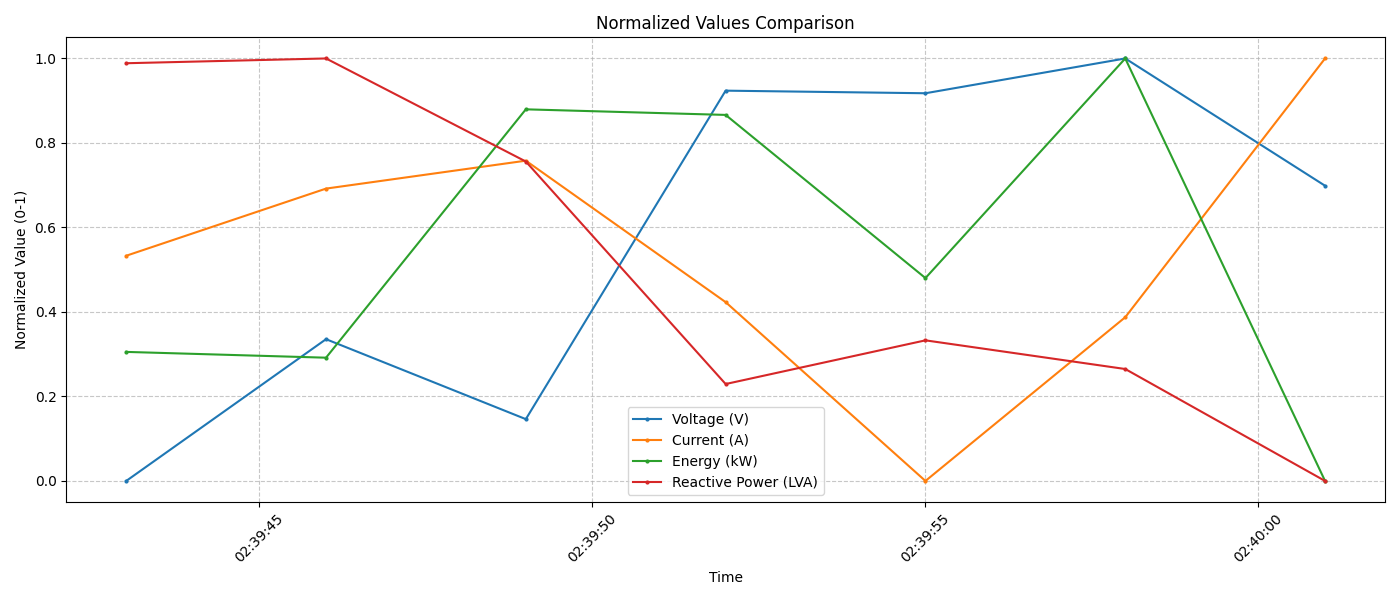
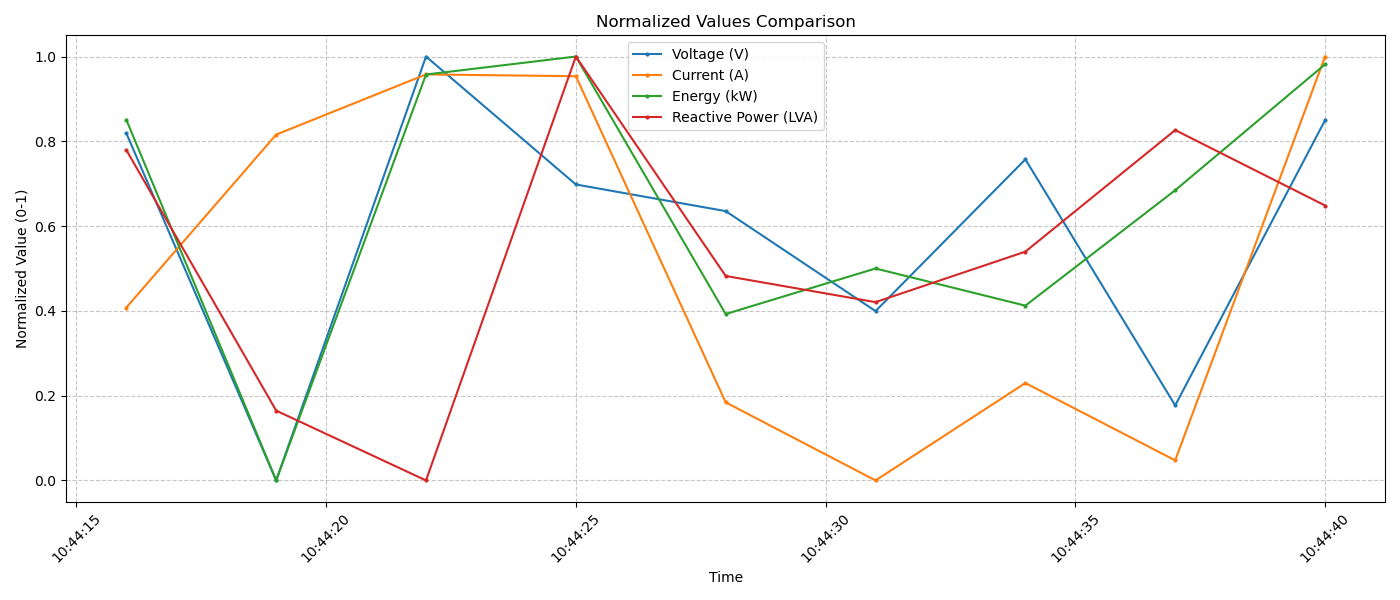
Mock script compatability update

diff --git a/energy_logger.py b/energy_logger.py
@@ -4,18 +4,26 @@ import csv
 import random
 import time
 import os
-import msvcrt
 import pandas as pd
-import matplotlib.pyplot as plt
 from datetime import datetime
+
+# Configure matplotlib for headless environment
+import matplotlib
+matplotlib.use('Agg')  # Non-interactive backend for headless systems
+import matplotlib.pyplot as plt
 
 # Config
 DS_FILENAME = "energy_data.csv"
 DS_HEADER = ["Timestamp", "Voltage (V)", "Current (A)", "Energy (kW)", "Reactive Power (LVA)"]
 
-with open(DS_FILENAME, 'w', newline='') as f:
-    writer = csv.writer(f)
-    writer.writerow(DS_HEADER)
+# Create plots directory if it doesn't exist
+os.makedirs("plots", exist_ok=True)
+
+# Initialize CSV file with headers if it doesn't exist or is empty
+if not os.path.exists(DS_FILENAME) or os.path.getsize(DS_FILENAME) == 0:
+    with open(DS_FILENAME, 'w', newline='') as f:
+        writer = csv.writer(f)
+        writer.writerow(DS_HEADER)
 
 # Functions
 def meter_reading():
@@ -33,124 +41,137 @@ def calculate_statistics():
     """
     Calculate statistics based on the logged data.
     """
-    df = pd.read_csv(DS_FILENAME)
-    
-    # Calculate statistics for each column
-    stats = {}
-    for column in df.columns[1:]:  # Skip timestamp column
-        stats[column] = {
-            'min': df[column].min(),
-            'max': df[column].max(),
-            'mean': df[column].mean(),
-            'median': df[column].median(),
-            'std': df[column].std()
-        }
-    
-    # Print statistics
-    print("\n===== Power Meter Statistics =====")
-    for column, values in stats.items():
-        print(f"\n{column}:")
-        for stat_name, stat_value in values.items():
-            print(f"  {stat_name}: {stat_value:.2f}")
+    try:
+        df = pd.read_csv(DS_FILENAME)
+        
+        # Calculate statistics for each column
+        stats = {}
+        for column in df.columns[1:]:  # Skip timestamp column
+            stats[column] = {
+                'min': df[column].min(),
+                'max': df[column].max(),
+                'mean': df[column].mean(),
+                'median': df[column].median(),
+                'std': df[column].std()
+            }
+        
+        # Print statistics
+        print("\n===== Power Meter Statistics =====")
+        for column, values in stats.items():
+            print(f"\n{column}:")
+            for stat_name, stat_value in values.items():
+                print(f"  {stat_name}: {stat_value:.2f}")
 
-    return df
+        return df
+    except Exception as e:
+        print(f"Error calculating statistics: {e}")
+        return None
 
 def visualize_data(df):
     """
     Visualize the logged data with enhanced time series charts.
     """
-    # Convert timestamp to datetime for better plotting
-    df['Timestamp'] = pd.to_datetime(df['Timestamp'])
-    
-    # Create figure with shared x-axis for better time comparison
-    fig, axs = plt.subplots(2, 2, figsize=(14, 10), sharex=True)
-    
-    # Format the date/time display on x-axis
-    from matplotlib.dates import DateFormatter
-    date_format = DateFormatter('%H:%M:%S')
-    
-    # Plot voltage with markers and grid
-    axs[0, 0].plot(df['Timestamp'], df['Voltage (V)'], 'b-', linewidth=1.5, marker='o', markersize=3)
-    axs[0, 0].set_title('Voltage Over Time')
-    axs[0, 0].set_ylabel('Voltage (V)')
-    axs[0, 0].grid(True, linestyle='--', alpha=0.7)
-    
-    # Plot current
-    axs[0, 1].plot(df['Timestamp'], df['Current (A)'], 'r-', linewidth=1.5, marker='o', markersize=3)
-    axs[0, 1].set_title('Current Over Time')
-    axs[0, 1].set_ylabel('Current (A)')
-    axs[0, 1].grid(True, linestyle='--', alpha=0.7)
-    
-    # Plot energy
-    axs[1, 0].plot(df['Timestamp'], df['Energy (kW)'], 'g-', linewidth=1.5, marker='o', markersize=3)
-    axs[1, 0].set_title('Energy Over Time')
-    axs[1, 0].set_ylabel('Energy (kW)')
-    axs[1, 0].set_xlabel('Time')
-    axs[1, 0].grid(True, linestyle='--', alpha=0.7)
-    
-    # Plot reactive power
-    axs[1, 1].plot(df['Timestamp'], df['Reactive Power (LVA)'], 'm-', linewidth=1.5, marker='o', markersize=3)
-    axs[1, 1].set_title('Reactive Power Over Time')
-    axs[1, 1].set_ylabel('Reactive Power (LVA)')
-    axs[1, 1].set_xlabel('Time')
-    axs[1, 1].grid(True, linestyle='--', alpha=0.7)
-    
-    # Apply the formatter to all x-axes
-    for ax in axs.flat:
-        ax.xaxis.set_major_formatter(date_format)
-    
-    # Add rolling averages if enough data points
-    if len(df) > 5:
-        window = min(5, len(df) // 2)  # Use sensible window size
-        axs[0, 0].plot(df['Timestamp'], df['Voltage (V)'].rolling(window=window).mean(), 
-            'k--', alpha=0.7, linewidth=1, label='Trend (Rolling Avg)')
-        axs[0, 1].plot(df['Timestamp'], df['Current (A)'].rolling(window=window).mean(), 
-            'k--', alpha=0.7, linewidth=1, label='Trend (Rolling Avg)')
-        axs[1, 0].plot(df['Timestamp'], df['Energy (kW)'].rolling(window=window).mean(), 
-            'k--', alpha=0.7, linewidth=1, label='Trend (Rolling Avg)')
-        axs[1, 1].plot(df['Timestamp'], df['Reactive Power (LVA)'].rolling(window=window).mean(), 
-            'k--', alpha=0.7, linewidth=1, label='Trend (Rolling Avg)')
+    if df is None or len(df) < 2:
+        print("Not enough data for visualization.")
+        return
         
-        # Add legends
+    try:
+        # Convert timestamp to datetime for better plotting
+        df['Timestamp'] = pd.to_datetime(df['Timestamp'])
+        
+        # Create figure with shared x-axis for better time comparison
+        fig, axs = plt.subplots(2, 2, figsize=(14, 10), sharex=True)
+        
+        # Format the date/time display on x-axis
+        from matplotlib.dates import DateFormatter
+        date_format = DateFormatter('%H:%M:%S')
+        
+        # Plot voltage with markers and grid
+        axs[0, 0].plot(df['Timestamp'], df['Voltage (V)'], 'b-', linewidth=1.5, marker='o', markersize=3)
+        axs[0, 0].set_title('Voltage Over Time')
+        axs[0, 0].set_ylabel('Voltage (V)')
+        axs[0, 0].grid(True, linestyle='--', alpha=0.7)
+        
+        # Plot current
+        axs[0, 1].plot(df['Timestamp'], df['Current (A)'], 'r-', linewidth=1.5, marker='o', markersize=3)
+        axs[0, 1].set_title('Current Over Time')
+        axs[0, 1].set_ylabel('Current (A)')
+        axs[0, 1].grid(True, linestyle='--', alpha=0.7)
+        
+        # Plot energy
+        axs[1, 0].plot(df['Timestamp'], df['Energy (kW)'], 'g-', linewidth=1.5, marker='o', markersize=3)
+        axs[1, 0].set_title('Energy Over Time')
+        axs[1, 0].set_ylabel('Energy (kW)')
+        axs[1, 0].set_xlabel('Time')
+        axs[1, 0].grid(True, linestyle='--', alpha=0.7)
+        
+        # Plot reactive power
+        axs[1, 1].plot(df['Timestamp'], df['Reactive Power (LVA)'], 'm-', linewidth=1.5, marker='o', markersize=3)
+        axs[1, 1].set_title('Reactive Power Over Time')
+        axs[1, 1].set_ylabel('Reactive Power (LVA)')
+        axs[1, 1].set_xlabel('Time')
+        axs[1, 1].grid(True, linestyle='--', alpha=0.7)
+        
+        # Apply the formatter to all x-axes
         for ax in axs.flat:
-            ax.legend()
-    
-    # Rotate x-axis labels
-    plt.setp(axs[1, 0].get_xticklabels(), rotation=45, ha='right')
-    plt.setp(axs[1, 1].get_xticklabels(), rotation=45, ha='right')
-    
-    plt.tight_layout()
-    
-    # Add a combined normalized time series plot
-    plt.figure(figsize=(14, 6))
-    
-    # Normalize each series to 0-1 range for comparison
-    for column in df.columns[1:]:
-        series = df[column]
-        normalized = (series - series.min()) / (series.max() - series.min())
-        plt.plot(df['Timestamp'], normalized, marker='.', markersize=4, label=column)
-    
-    plt.title('Normalized Values Comparison')
-    plt.xlabel('Time')
-    plt.ylabel('Normalized Value (0-1)')
-    plt.grid(True, linestyle='--', alpha=0.7)
-    plt.legend()
-    plt.xticks(rotation=45)
-    plt.tight_layout()
-    
-    # Save both figures
-    fig.savefig("plots/energy_data_visualization.png")
-    plt.savefig("plots/energy_data_normalized.png")
+            ax.xaxis.set_major_formatter(date_format)
+        
+        # Add rolling averages if enough data points
+        if len(df) > 5:
+            window = min(5, len(df) // 2)  # Use sensible window size
+            axs[0, 0].plot(df['Timestamp'], df['Voltage (V)'].rolling(window=window).mean(), 
+                'k--', alpha=0.7, linewidth=1, label='Trend (Rolling Avg)')
+            axs[0, 1].plot(df['Timestamp'], df['Current (A)'].rolling(window=window).mean(), 
+                'k--', alpha=0.7, linewidth=1, label='Trend (Rolling Avg)')
+            axs[1, 0].plot(df['Timestamp'], df['Energy (kW)'].rolling(window=window).mean(), 
+                'k--', alpha=0.7, linewidth=1, label='Trend (Rolling Avg)')
+            axs[1, 1].plot(df['Timestamp'], df['Reactive Power (LVA)'].rolling(window=window).mean(), 
+                'k--', alpha=0.7, linewidth=1, label='Trend (Rolling Avg)')
+            
+            # Add legends
+            for ax in axs.flat:
+                ax.legend()
+        
+        # Rotate x-axis labels
+        plt.setp(axs[1, 0].get_xticklabels(), rotation=45, ha='right')
+        plt.setp(axs[1, 1].get_xticklabels(), rotation=45, ha='right')
+        
+        plt.tight_layout()
+        
+        # Add a combined normalized time series plot
+        plt.figure(figsize=(14, 6))
+        
+        # Normalize each series to 0-1 range for comparison
+        for column in df.columns[1:]:
+            series = df[column]
+            normalized = (series - series.min()) / (series.max() - series.min())
+            plt.plot(df['Timestamp'], normalized, marker='.', markersize=4, label=column)
+        
+        plt.title('Normalized Values Comparison')
+        plt.xlabel('Time')
+        plt.ylabel('Normalized Value (0-1)')
+        plt.grid(True, linestyle='--', alpha=0.7)
+        plt.legend()
+        plt.xticks(rotation=45)
+        plt.tight_layout()
+        
+        # Save both figures with absolute paths
+        os.makedirs("plots", exist_ok=True)
+        fig.savefig("plots/energy_data_visualization.png")
+        plt.savefig("plots/energy_data_normalized.png")
 
-    print("\nVisualizations saved as:")
-    print("'energy_data_visualization.png'")
-    print("'energy_data_normalized.png'")
+        print("\nVisualizations saved as:")
+        print("- plots/energy_data_visualization.png")
+        print("- plots/energy_data_normalized.png")
+    except Exception as e:
+        print(f"Error generating visualizations: {e}")
 
 def simulate():
     """
     Simulate energy data logging.
     """
     try:
+        print("Energy Data Logger started. Press Ctrl+C to stop the simulation.")
         while True:
             voltage, current, energy, reactive_power = meter_reading()
             timestamp = datetime.now().strftime("%Y-%m-%d %H:%M:%S")
@@ -161,17 +182,14 @@ def simulate():
                 writer.writerow([timestamp, voltage, current, energy, reactive_power])
                 
             print(f"[{timestamp}] Logged: V={voltage} V | I={current} A | E={energy} kW | RP={reactive_power} LVA")
-
-            for _ in range(30):
-                if msvcrt.kbhit():
-                    key = msvcrt.getch().decode().lower()
-                    if key == 'c':
-                        raise KeyboardInterrupt
-                time.sleep(0.1)
+            time.sleep(3)
+            
     except KeyboardInterrupt:
-        # Visualize data on exit
+        print("\nLogging stopped by user. Processing data...")
         df = calculate_statistics()
         visualize_data(df)
+    except Exception as e:
+        print(f"Error during simulation: {e}")
 
 if __name__ == "__main__":
     simulate()

diff --git a/README.md b/README.md
@@ -1,0 +1,49 @@
+# Energy Data Logger Notes
+
+## Connecting to the Raspberry Pi via SSH
+
+### Network Setup
+1. Boot Raspberry Pi up, wait about a minute for WiFi to activate.
+
+2. Connect to the Pi's wireless network:
+    - SSID: `T01⁰N9`
+    - Password: `TolonglahAku`
+    
+    > *Note: These are the default WLAN settings configured during flash and may change in the future.*
+
+### Finding the Pi's IP Address (Windows)
+1. Open a command prompt
+2. Run `ipconfig` and note the first 3 octets of your IPv4 address (network ID)
+3. Run `nmap -sn <NETWORK_ID>.1/24` to scan for devices
+4. Look for "Raspberry Pi" in the results and note its IP address
+
+### Establishing SSH Connection
+- Option 1: Use PuTTY (GUI)
+- Option 2: Command line: `ssh <username>@<ip-address>`
+
+## Managing Scripts on the Pi
+
+### Copying Scripts to the Pi
+```bash
+scp energy_logger.py admin@192.168.85.193:~/
+```
+
+### Running Scripts
+1. Connect to the Pi via SSH
+2. Run the script with: `python3 energy_logger.py`
+3. Stop the script with: `CTRL+C`
+
+## Testing: Retrieving Data from the Pi
+
+### Setup
+1. Connect to the Pi via SSH
+2. Create a plots directory (if needed): `mkdir -p ~/plots`
+3. Run your script to generate plots
+
+### Downloading Plots to Local Machine
+1. Exit the Pi SSH session: `exit`
+2. Create a local plots directory: `mkdir -p plots`
+3. Download the plots:
+```bash
+scp admin@192.168.85.193:~/plots/* ./plots/
+```
